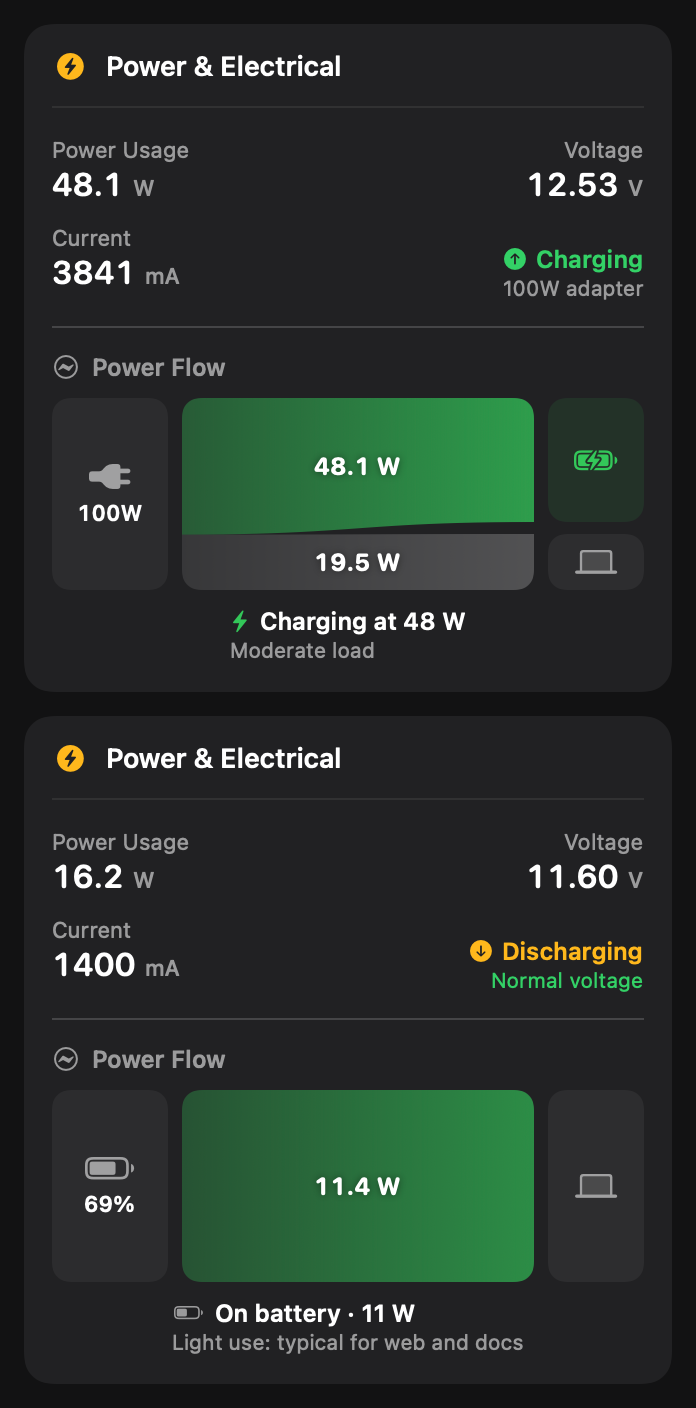
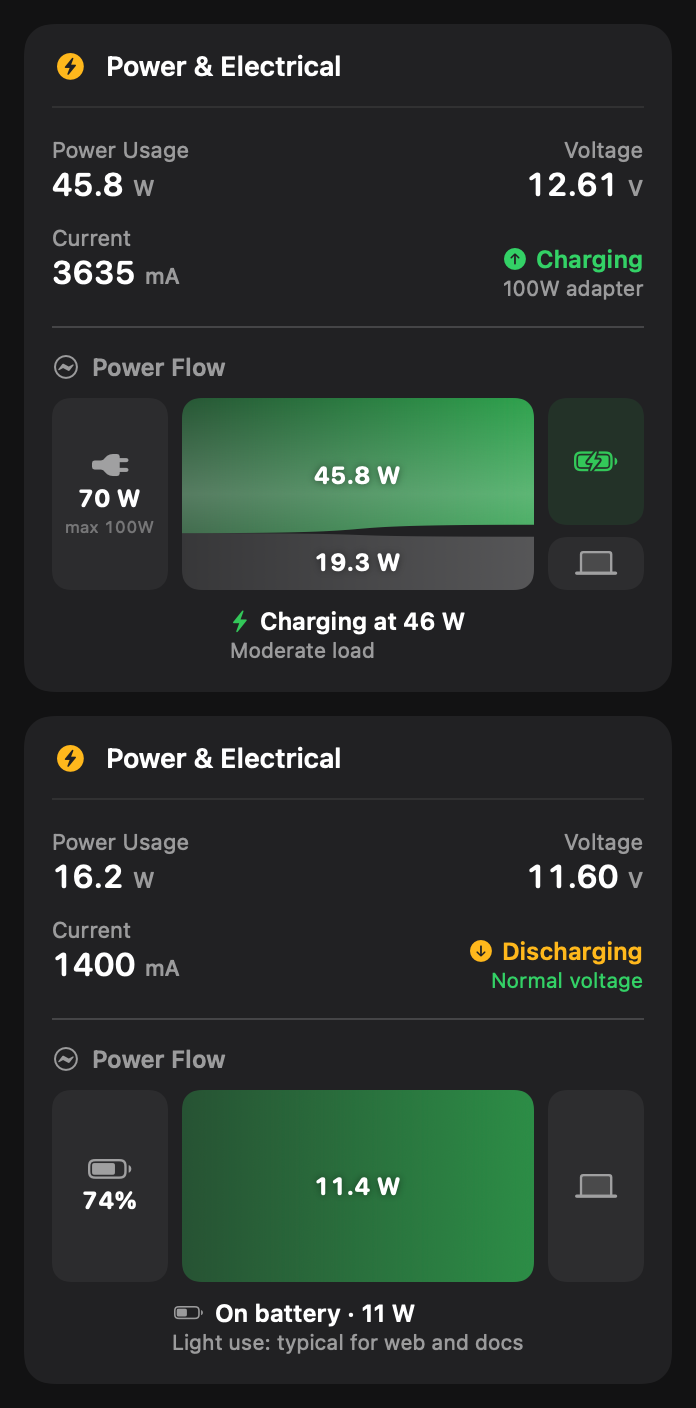
Curve the power flow ribbons, and stop claiming the charger's rating
The ribbons ran almost straight. Their control points both sat at the
midpoint, which gives a lazy diagonal; crossing them — the first to the
right of centre, the second to the left — holds each edge flat as it
leaves and arrives and puts the bend in the middle, which is the shape
this wanted. The destination boxes are sized by share too, so the
divider has somewhere to travel, and the charging ribbon carries a
streak of light for depth.

The source box claimed the charger was 100W. That figure is the
negotiated USB-C contract, 20V at 5A, not the adapter's rating — a 140W
charger reports 100W there unless it negotiates the extended range. It
is also the wrong number to lead with, being a fixed ceiling while the
interesting value moves. The box now leads with what the adapter is
actually delivering and keeps the negotiated ceiling as a caption.

diff --git a/Volt/UI/PowerFlowView.swift b/Volt/UI/PowerFlowView.swift
@@ -36,7 +36,7 @@ struct PowerFlowView: View {
                     .frame(maxWidth: .infinity)
                     .clipShape(RoundedRectangle(cornerRadius: 9, style: .continuous))
 
-                VStack(spacing: 6) {
+                VStack(spacing: boxGap) {
                     if snapshot.isCharging {
                         endpoint(symbol: "battery.100percent.bolt", tint: tint)
                             .frame(height: batteryBoxHeight)
@@ -46,7 +46,7 @@ struct PowerFlowView: View {
                 }
                 .frame(width: 48)
             }
-            .frame(height: 96)
+            .frame(height: flowHeight)
 
             caption
         }
@@ -55,25 +55,45 @@ struct PowerFlowView: View {
     // MARK: - Pieces
 
     /// The adapter when plugged in, the battery when not.
+    ///
+    /// The headline is what the adapter is actually delivering, which moves with the
+    /// load. The figure underneath is the negotiated USB-C contract — the ceiling the
+    /// Mac and the charger agreed on, not a claim about what is printed on the brick.
+    /// A 140 W charger reports 100 W here unless it negotiates the extended range.
     private var source: some View {
-        VStack(spacing: 4) {
+        VStack(spacing: 2) {
             Image(systemName: snapshot.isPluggedIn ? "powerplug.fill" : "battery.75percent")
-                .font(.system(size: 17))
+                .font(.system(size: 15))
                 .foregroundStyle(Panel.secondary)
-            Text(sourceLabel)
-                .font(.system(size: 11, weight: .semibold))
+
+            Text(sourceHeadline)
+                .font(.system(size: 12, weight: .bold, design: .rounded))
                 .monospacedDigit()
                 .foregroundStyle(Panel.label)
+
+            if let detail = sourceDetail {
+                Text(detail)
+                    .font(.system(size: 8.5))
+                    .monospacedDigit()
+                    .foregroundStyle(Panel.tertiary)
+            }
         }
         .frame(maxWidth: .infinity, maxHeight: .infinity)
         .background(RoundedRectangle(cornerRadius: 9, style: .continuous)
             .fill(Color.white.opacity(0.05)))
     }
 
-    private var sourceLabel: String {
-        if snapshot.isPluggedIn, let watts = snapshot.adapterWatts { return "\(watts)W" }
-        if snapshot.isPluggedIn { return "AC" }
-        return "\(snapshot.percentage)%"
+    private var sourceHeadline: String {
+        guard snapshot.isPluggedIn else { return "\(snapshot.percentage)%" }
+        if let delivered = snapshot.adapterPower, delivered > 0.5 {
+            return String(format: "%.0f W", delivered)
+        }
+        return "AC"
+    }
+
+    private var sourceDetail: String? {
+        guard snapshot.isPluggedIn, let negotiated = snapshot.adapterWatts else { return nil }
+        return "max \(negotiated)W"
     }
 
     private func endpoint(symbol: String, tint: Color) -> some View {
@@ -85,10 +105,15 @@ struct PowerFlowView: View {
                 .fill(tint.opacity(0.10)))
     }
 
-    /// Height of the battery box, proportional to its share of the flow.
+    private let flowHeight: CGFloat = 96
+    private let boxGap: CGFloat = 6
+
+    /// Height of the battery box, proportional to its share of the flow so the ribbon
+    /// arriving at it is the same thickness as the box itself.
     private var batteryBoxHeight: CGFloat {
         let share = toBattery / total
-        return max(28, min(62, 96 * share))
+        let usable = flowHeight - boxGap
+        return max(26, min(usable - 26, usable * share))
     }
 
     private var flow: some View {
@@ -97,21 +122,34 @@ struct PowerFlowView: View {
             let h = geo.size.height
 
             if snapshot.isCharging {
-                let split = max(18, min(h - 18, h * (toBattery / total)))
-                // Battery band on top, sized to its share; the Mac's share below it.
-                band(width: w, leftTop: 0, leftBottom: split,
-                     rightTop: 0, rightBottom: batteryBoxHeight)
-                    .fill(LinearGradient(colors: [tint.opacity(0.35), tint.opacity(0.75)],
-                                         startPoint: .leading, endPoint: .trailing))
-                    .overlay(label(String(format: "%.1f W", toBattery),
-                                   at: CGPoint(x: w / 2, y: split / 2), tint: .white))
+                // The stream leaves the adapter split by share and arrives split by the
+                // destination boxes, so the divider sweeps between the two.
+                let leftSplit = max(16, min(h - 16, h * (toBattery / total)))
+                let rightSplit = batteryBoxHeight
 
-                band(width: w, leftTop: split, leftBottom: h,
-                     rightTop: batteryBoxHeight + 6, rightBottom: h)
-                    .fill(LinearGradient(colors: [Color.white.opacity(0.10), Color.white.opacity(0.22)],
+                band(width: w, leftTop: 0, leftBottom: leftSplit,
+                     rightTop: 0, rightBottom: rightSplit)
+                    .fill(LinearGradient(colors: [tint.opacity(0.32), tint.opacity(0.78)],
+                                         startPoint: .leading, endPoint: .trailing))
+                    .overlay {
+                        // A streak of light along the ribbon, for a bit of depth.
+                        band(width: w, leftTop: 0, leftBottom: leftSplit,
+                             rightTop: 0, rightBottom: rightSplit)
+                            .fill(LinearGradient(colors: [.clear, .white.opacity(0.22), .clear],
+                                                 startPoint: .top, endPoint: .bottom))
+                    }
+                    .overlay(label(String(format: "%.1f W", toBattery),
+                                   at: CGPoint(x: w / 2, y: (leftSplit + rightSplit) / 4 + 6),
+                                   tint: .white))
+
+                band(width: w, leftTop: leftSplit, leftBottom: h,
+                     rightTop: rightSplit + boxGap, rightBottom: h)
+                    .fill(LinearGradient(colors: [Color.white.opacity(0.10), Color.white.opacity(0.24)],
                                          startPoint: .leading, endPoint: .trailing))
                     .overlay(label(String(format: "%.1f W", toSystem),
-                                   at: CGPoint(x: w / 2, y: (split + h) / 2), tint: .white))
+                                   at: CGPoint(x: w / 2,
+                                               y: (leftSplit + h + rightSplit + boxGap + h) / 4),
+                                   tint: .white))
             } else {
                 band(width: w, leftTop: 0, leftBottom: h, rightTop: 0, rightBottom: h)
                     .fill(LinearGradient(colors: [tint.opacity(0.30), tint.opacity(0.65)],
@@ -123,18 +161,25 @@ struct PowerFlowView: View {
     }
 
     /// A ribbon from a span on the left edge to a span on the right edge.
+    ///
+    /// The control points cross over — the first sits to the right of centre, the
+    /// second to the left — which holds each edge flat as it leaves and arrives and
+    /// puts all the bend in the middle. Placing both at the midpoint gives a lazy
+    /// diagonal instead of the steep S this is after.
     private func band(width: CGFloat, leftTop: CGFloat, leftBottom: CGFloat,
                       rightTop: CGFloat, rightBottom: CGFloat) -> Path {
         var path = Path()
-        let mid = width * 0.5
+        let near = width * 0.72
+        let far = width * 0.28
+
         path.move(to: CGPoint(x: 0, y: leftTop))
         path.addCurve(to: CGPoint(x: width, y: rightTop),
-                      control1: CGPoint(x: mid, y: leftTop),
-                      control2: CGPoint(x: mid, y: rightTop))
+                      control1: CGPoint(x: near, y: leftTop),
+                      control2: CGPoint(x: far, y: rightTop))
         path.addLine(to: CGPoint(x: width, y: rightBottom))
         path.addCurve(to: CGPoint(x: 0, y: leftBottom),
-                      control1: CGPoint(x: mid, y: rightBottom),
-                      control2: CGPoint(x: mid, y: leftBottom))
+                      control1: CGPoint(x: far, y: rightBottom),
+                      control2: CGPoint(x: near, y: leftBottom))
         path.closeSubpath()
         return path
     }

diff --git a/Volt/UI/PopoverView.swift b/Volt/UI/PopoverView.swift
@@ -358,7 +358,8 @@ struct PowerCard: View {
                         .foregroundStyle(snapshot.isCharging ? Panel.green : Panel.amber)
 
                         if let watts = snapshot.adapterWatts, snapshot.isPluggedIn {
-                            Text("\(watts)W adapter")
+                            // The negotiated ceiling, not the charger's rating.
+                            Text("\(watts)W negotiated")
                                 .font(.system(size: 10.5))
                                 .foregroundStyle(Panel.secondary)
                         } else {

diff --git a/README.md b/README.md
@@ -30,9 +30,14 @@ their own panel, reached from a selector at the top rather than by scrolling pas
 everything.
 
 **Power flow.** Plugged in, the adapter's output splits between charging the pack and
-running the Mac — shown as two bands whose thickness is their share, with the adapter's
-rating on one side and where the watts land on the other. On battery it is a single band
-flowing the other way.
+running the Mac — shown as two ribbons whose thickness is their share, with what the
+adapter is actually delivering on one side and where the watts land on the other. On
+battery it is a single ribbon flowing the other way.
+
+The headline figure is the delivered power, which moves with the load. The smaller one
+beneath it is the negotiated USB-C contract — the ceiling the Mac and charger agreed on,
+not what is printed on the brick. A 140W charger reports 100W there unless it negotiates
+the extended range.
 
 **Health.** Capacity against design capacity, cycle count, condition, temperature, live
 watts / volts / amps, and raw mAh. Where macOS reports its own "Maximum Capacity"
